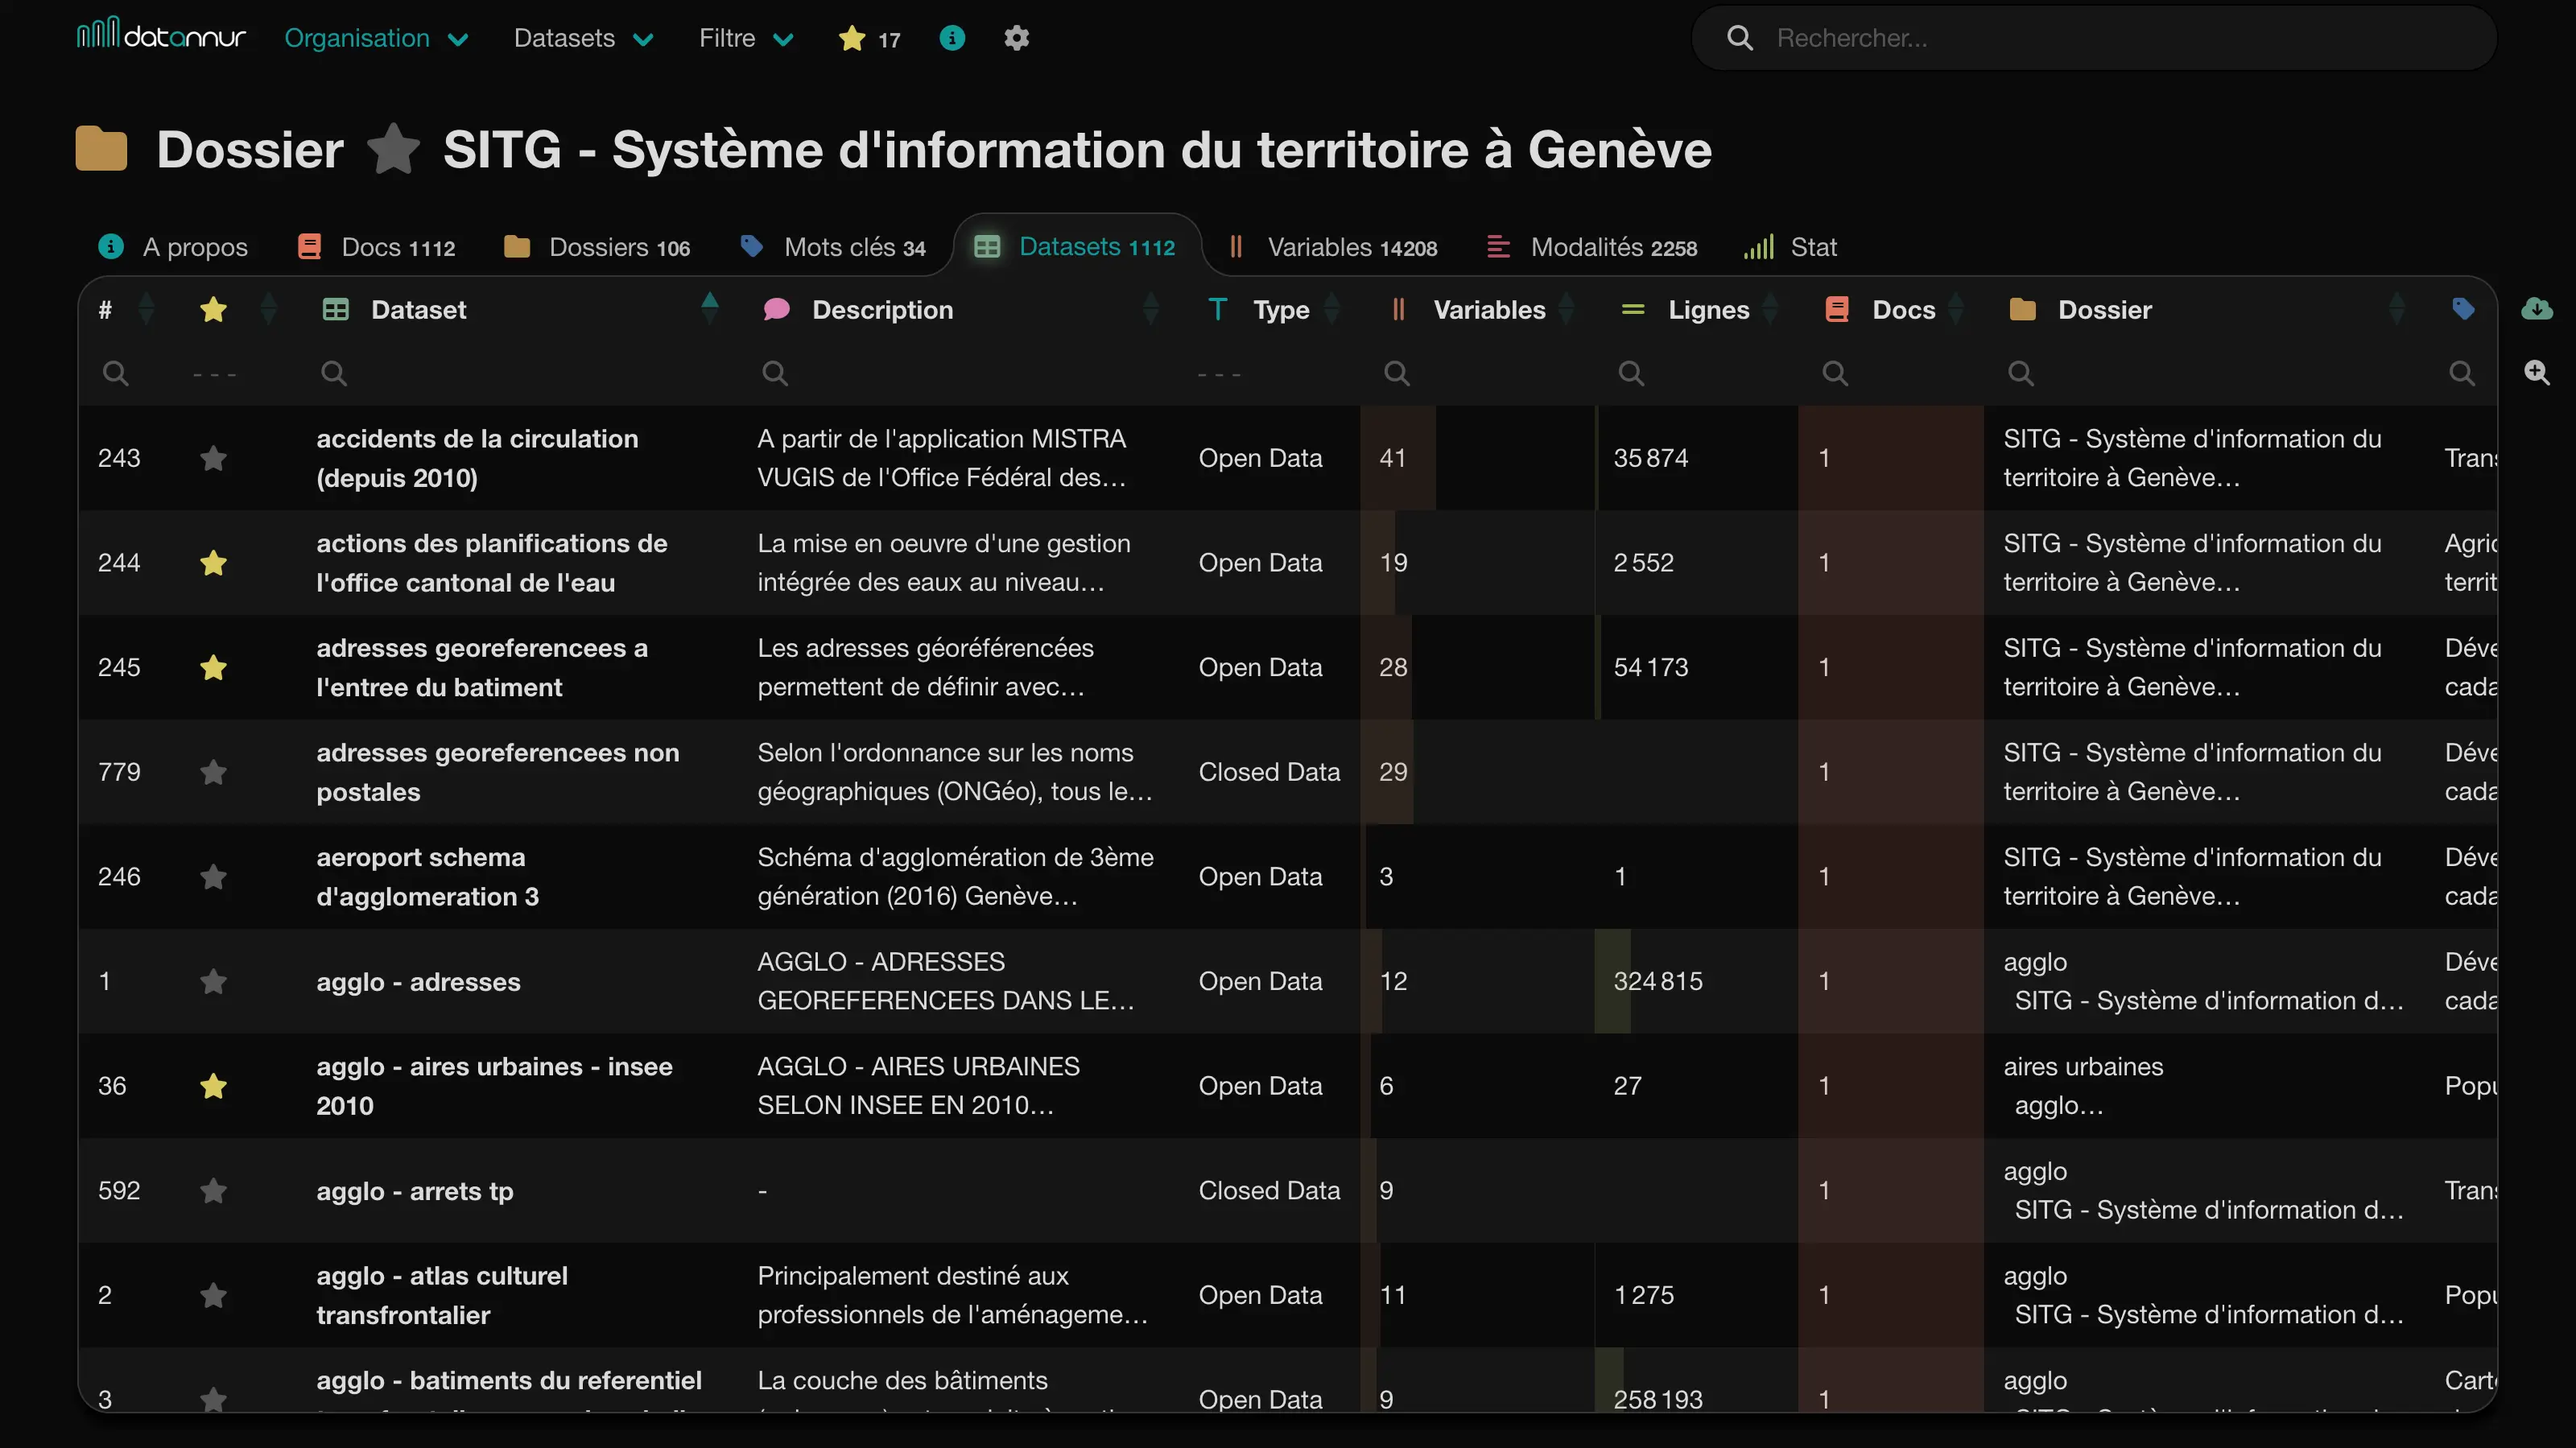
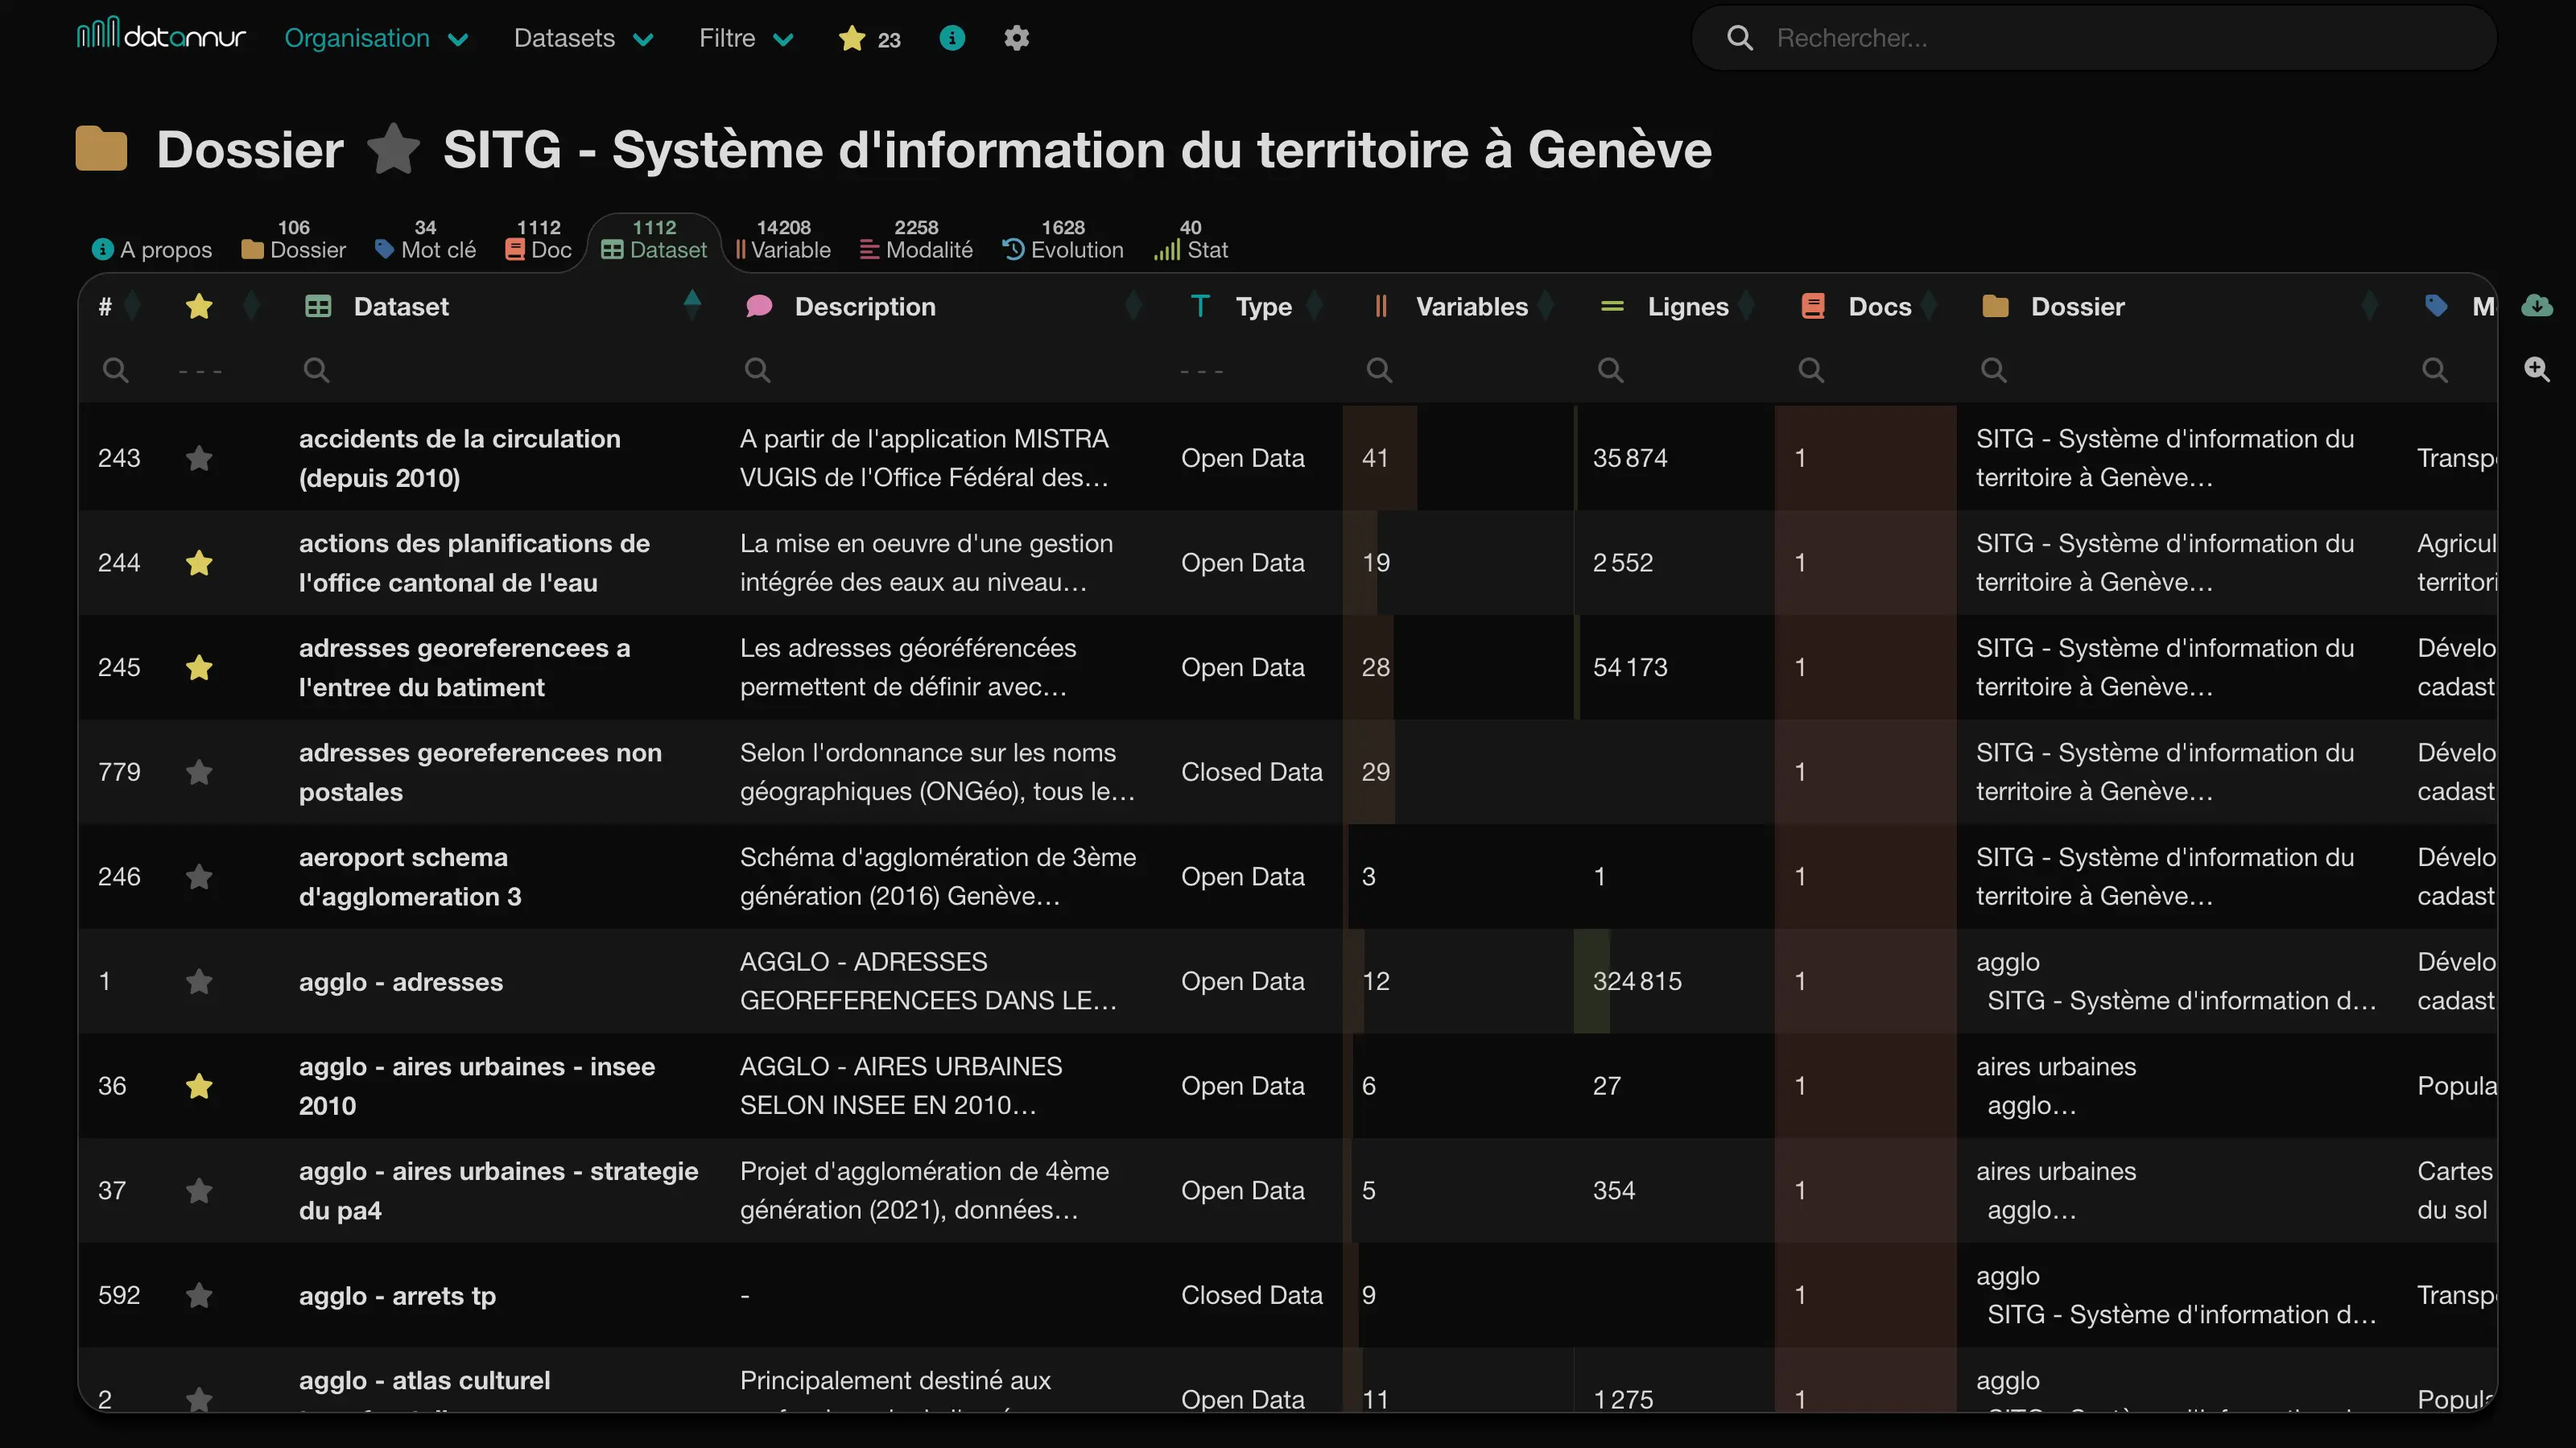
add : items from child tags to parent tags

diff --git a/src/page/tag[id].svelte b/src/page/tag[id].svelte
@@ -1,6 +1,10 @@
 <script>
   import db from "@db"
-  import { make_parents_relative, add_minimum_deep } from "@js/db"
+  import {
+    make_parents_relative,
+    add_minimum_deep,
+    remove_duplicate_by_id,
+  } from "@js/db"
   import Tabs from "@tab/Tabs.svelte"
   import { tabs_helper } from "@tab/tabs_helper"
   import Title from "@layout/Title.svelte"
@@ -17,12 +21,31 @@
   let variables
   let tags
 
-  const with_institutions = db.get_all("institution", { tag })
-  const with_folders = db.get_all("folder", { tag })
-  const with_datasets = db.get_all("dataset", { tag })
-  const with_variables = db.get_all("variable", { tag })
-  const with_docs = db.get_all("doc", { tag })
+  let with_institutions = db.get_all("institution", { tag })
+  let with_folders = db.get_all("folder", { tag })
+  let with_datasets = db.get_all("dataset", { tag })
+  let with_variables = db.get_all("variable", { tag })
+  let with_docs = db.get_all("doc", { tag })
+
   const with_tags = db.get_all_childs("tag", tag.id)
+
+  for (const child_tag of with_tags) {
+    const child_institutions = db.get_all("institution", { tag: child_tag })
+    const child_folders = db.get_all("folder", { tag: child_tag })
+    const child_datasets = db.get_all("dataset", { tag: child_tag })
+    const child_variables = db.get_all("variable", { tag: child_tag })
+    const child_docs = db.get_all("doc", { tag: child_tag })
+    with_institutions = with_institutions.concat(child_institutions)
+    with_folders = with_folders.concat(child_folders)
+    with_datasets = with_datasets.concat(child_datasets)
+    with_variables = with_variables.concat(child_variables)
+    with_docs = with_docs.concat(child_docs)
+  }
+  with_institutions = remove_duplicate_by_id(with_institutions)
+  with_folders = remove_duplicate_by_id(with_folders)
+  with_datasets = remove_duplicate_by_id(with_datasets)
+  with_variables = remove_duplicate_by_id(with_variables)
+  with_docs = remove_duplicate_by_id(with_docs)
 
   function get_opposite(entity, with_tag_items, self_id = false) {
     if (with_tag_items.length === 0) return []

diff --git a/src/component/tag/Tags.svelte b/src/component/tag/Tags.svelte
@@ -16,19 +16,21 @@
   let tag_max = 0
   let institution_max = 0
   let folder_max = 0
-  let dataset_max = 0
   let doc_max = 0
+  let dataset_max = 0
   let variable_max = 0
   for (const tag of tags) {
     if (db.use.tag_recursive) tag.path_string = get_parent_path(tag)
     if (tag.nb_child_recursive > tag_max) tag_max = tag.nb_child_recursive
-    if (tag.nb_institution > institution_max)
-      institution_max = tag.nb_institution
-    if (tag.nb_folder > folder_max) folder_max = tag.nb_folder
-    if (tag.nb_dataset > dataset_max) dataset_max = tag.nb_dataset
-    if (tag.nb_variable > variable_max) variable_max = tag.nb_variable
-    if (tag.docs_recursive?.length > doc_max)
-      doc_max = tag.docs_recursive?.length
+    if (tag.nb_institution_recursive > institution_max)
+      institution_max = tag.nb_institution_recursive
+    if (tag.nb_folder_recursive > folder_max)
+      folder_max = tag.nb_folder_recursive
+    if (tag.nb_doc_recursive > doc_max) doc_max = tag.nb_doc_recursive
+    if (tag.nb_dataset_recursive > dataset_max)
+      dataset_max = tag.nb_dataset_recursive
+    if (tag.nb_variable_recursive > variable_max)
+      variable_max = tag.nb_variable_recursive
   }
 
   const tags_sorted = [...tags]
@@ -72,9 +74,9 @@
         },
       },
       Column.nb_folder_recursive("tag", folder_max),
-      Column.nb_doc("tag", doc_max),
+      Column.nb_doc_recursive("tag", doc_max),
       Column.nb_dataset_recursive("tag", dataset_max),
-      Column.nb_variable("tag", variable_max),
+      Column.nb_variable("tag", variable_max, { recursive: true }),
     ])
 
     if (db.use.tag_recursive) {

diff --git a/src/js/Column.js b/src/js/Column.js
@@ -507,6 +507,21 @@ export default class Column {
       },
     }
   }
+  static nb_doc_recursive(entity, total) {
+    return {
+      data: "nb_doc_recursive",
+      title:
+        Render.icon("doc") + "<span class='hidden'>nb_docs</span>",
+      filter_type: "input",
+      tooltip: "Nombre de docs",
+      render: (data, type, row) => {
+        if (!data) return ""
+        const content = link(entity + "/" + row.id + "?tab=docs", data)
+        const percent = get_percent(data / total)
+        return `${Render.num_percent(content, percent, "doc", type)}`
+      },
+    }
+  }
   static nb_child_recursive(entity, total, link_path = false) {
     if (!link_path) link_path = entity + "/"
     const entity_plural = pluralize(entity)

diff --git a/src/js/db.js b/src/js/db.js
@@ -319,6 +319,7 @@ class Process {
       add_nb_child_recursive("tag", tag)
       add_nb_recursive("tag", tag, "institution")
       add_nb_recursive("tag", tag, "folder")
+      add_nb_recursive("tag", tag, "doc")
       add_nb_recursive("tag", tag, "dataset")
       add_nb_recursive("tag", tag, "variable")
     })

diff --git a/src/component/dataset/Datasets.svelte b/src/component/dataset/Datasets.svelte
@@ -47,9 +47,7 @@
       nb_derived_max = dataset.derived_ids.size
     }
   }
-
-  console.log(datasets_sorted)
-
+  
   function define_columns() {
     const base = [
       Column.name("dataset", "Dataset", { is_meta }),

diff --git a/CHANGELOG.md b/CHANGELOG.md
@@ -3,6 +3,7 @@
 ## unreleased
 - add : data lineage nb source and nb derived
 - add : description for data lineage on page functionality
+- add : items from child tags to parent tags
 
 ## 0.10.9 (2025-05-22)
 - add : institution valididy start and end date
